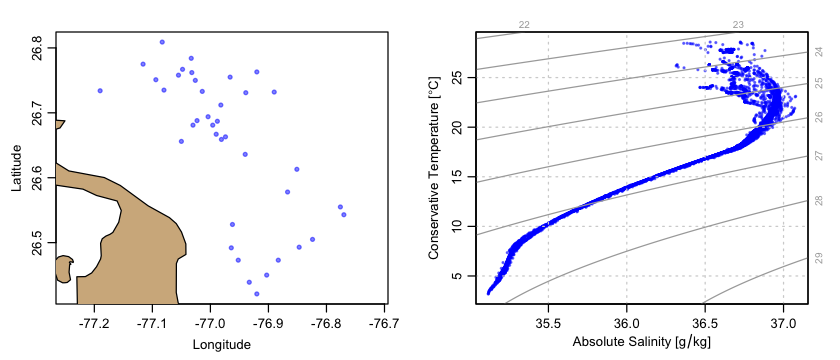
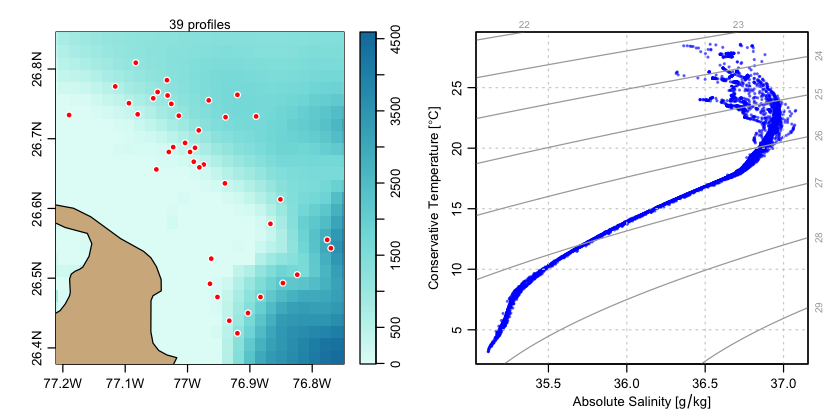
update README text and plot, plus QC tests

diff --git a/README.md b/README.md
@@ -9,15 +9,16 @@ analyzing collections of oceanographic Argo float datasets.  Its developers are
 * Jaimie Harbin, Bedford Institute of Oceanography and Dalhousie University
 * Clark Richards, Bedford Institute of Oceanography
 
-Since argoFloats is still in an active phase of development, it is not yet
+Since argoFloats is in an active phase of development, it is not yet
 available on CRAN.  Still, it is easily installed in R with
 ```R
 library(devtools)
 install_github('ArgoCanada/argoFloats', ref='develop')
 ```
 where, of course, the `devtools` package must be installed first, if it is not
-already present on the user's system.  It is also necessary to have up-to-date
-versions of the `oce` and `ocedata` packages installed, which is accomplished with
+already present on the user's system.  It is also necessary to have reasonably
+up-to-date versions of the `oce` and `ocedata` packages installed, which is
+accomplished with
 ```R
 install_github('dankelley/oce', ref='develop')
 install_github('dankelley/ocedata', ref='develop')
@@ -32,24 +33,43 @@ vignette also lists youtube videos about the package.
 
 For example, the following shows how to create a map and a temperature-salinity
 diagram for several Argo float profiles made near Abaco Island in the Bahamas.
-The `getIndex()` call specifies a directory to hold the index of float
-profiles, and this directory carries through to the `getProfiles()` call, which
-downloads the netcdf files that contain the profile data, and later to the
-`readProfiles()` call, which reads those files.  Use `?getIndex` to learn
-more about the first function used, `?"subset,argoFloats-method"` to learn
-about the second, etc.  (Note that `subset` and `plot` are generic functions,
-so the help is accessed with the comma notation.)
+First, the `getIndex` function is used to download a worldwide index of float
+profiles.  (Use `?getIndex` to learn more about this function, and note in
+particular the `destdir` argument, which determines where the index and other
+argo files will be stored locally.) Next, the `subset` function is used to
+narrow the region of interest; yielding (as of mid-June 2020) 39 profiles.  The
+`getProfiles` function is then used to download the relevant netcdf files that
+contain the profile data. Then, `readProfiles` is used to read those files.
+Many profiles contain quality-control flags to indicate bad or questionable
+data, and the `applyQC` is used to set such data to `NA`.  Finally, a map plot
+is drawn, with a label indicating the number of profiles shown; the latter
+illustrates the use of `[[`, a generic R function that is used to access data
+and metadata elements in argoFloats objects.  Finally, a temperature-salinity
+plot is shown.  As an exercise, the reader might find it informative to repeat
+the procedure, without the QC step.
 ```R
 library(argoFloats)
 library(oce)
-indexAll <- getIndex(destdir="~/data/argo")
+## Get worldwide float-profile index, saving to ~/data/argo by default.
+indexAll <- getIndex()
+## Narrow to a 30km-radius circle centred on Abaco Island, The Bahamas.
 index <- subset(indexAll,
-                circle=list(longitude=-77.06, latitude=26.54, radius=30))
+                circle=list(longitude=-77.06,latitude=26.54,radius=30))
+## Get netcdf files for these profiles, saving to ~/data/argo by default.
 profiles  <- getProfiles(index)
+## Read the netcdf files.
 argos <- readProfiles(profiles)
+## Examine QC flags, and set questionable data to NA.
+argosClean <- applyQC(argos)
+## Set up a two-panel plot.
 par(mfrow=c(1, 2))
+## Tighten margins (optional).
+par(mar=c(3.5, 3.5, 2.0, 2.0))
+## Plot a map with bathymetry, indicating number of profiles.
 plot(index, which="map")
-plot(argos, which="TS")
+mtext(paste(argosClean[["length"]], "profiles"))
+## Plot a TS diagram
+plot(argosClean, which="TS")
 ```
 ![Sample TS plot.](exampleTS.png)
 
